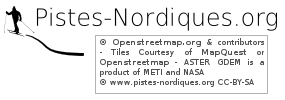
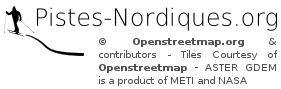
[beta] improve printing

Changed region(s): [[0.0, 0.0449, 0.9964, 0.9663]]

diff --git a/beta.pistes-nordiques.org/js/pistes-nordiques-base.js b/beta.pistes-nordiques.org/js/pistes-nordiques-base.js
@@ -28,6 +28,7 @@ var CATCHER=true;
 var permalink_potlatch2;
 var permalink_potlatch;
 var zoomBar;
+var PRINT_TYPE= 'small';
 function switch2vector() {
     if (mode == "raster") {
         loadjscssfile("js/pistes-nordiques-plus.js", "js");
@@ -697,12 +698,19 @@ function map_init(){
 // PRINT
 function print() {
 	// start print request
+	var mq=map.getLayersByName("MapQuest")[0];
+	var osm=map.getLayersByName("OSM")[0];
+	if (mq) {var bg='mq';}
+	else {var bg='osm';}
+	
 	var printLayer= map.getLayersByName("Print layer")[0];
 	var b = printLayer.features[0].geometry.bounds;
+	
+	
 	var b4326 = b.transform(
         new OpenLayers.Projection("EPSG:900913"),
         new OpenLayers.Projection("EPSG:4326"));
-    var args=b4326.left+';'+b4326.right+';'+b4326.top+';'+b4326.bottom;
+    var args=b4326.left+';'+b4326.right+';'+b4326.top+';'+b4326.bottom+';'+bg+';'+PRINT_TYPE;
     
     var XMLHttp = new XMLHttpRequest();
     XMLHttp.open("GET", server+"cgi/print/stitcher.py?"+args);
@@ -719,6 +727,7 @@ function print() {
 }
 function close_printSettings(){
 	document.getElementById('print-settings').style.display='none';
+	document.getElementById('print_result').innerHTML='';
 	var printLayer= map.getLayersByName("Print layer")[0];
 	printLayer.destroyFeatures(printLayer.features);
 	printLayer.destroy;
@@ -736,10 +745,12 @@ function setPrint(type) {
 	var center = map.getCenter();
 	var h;
 	var v;
-	if (type == 'vs') {h=5000;v=7000;}
-	if (type == 'hs') {h=7000;v=5000;}
-	if (type == 'vb') {h=7000;v=10000;}
-	if (type == 'hb') {h=10000;v=7000;}
+	if (type == 'vs') {h=5000;v=7000;PRINT_TYPE= 'small';}
+	if (type == 'hs') {h=7000;v=5000;PRINT_TYPE= 'small';}
+	//zoom 15
+	if (type == 'vb') {h=14000;v=20000;PRINT_TYPE= 'big';}
+	if (type == 'hb') {h=20000;v=14000;PRINT_TYPE= 'big';}
+	// zoom 14
 	var p1 = new OpenLayers.Geometry.Point(center.lon-h/2, center.lat-v/2);
 	var p2 = new OpenLayers.Geometry.Point(center.lon-h/2, center.lat+v/2);
 	var p3 = new OpenLayers.Geometry.Point(center.lon+h/2, center.lat+v/2);

diff --git a/beta.pistes-nordiques.org/cgi/print/stitcher.py b/beta.pistes-nordiques.org/cgi/print/stitcher.py
@@ -4,31 +4,34 @@ import math
 import urllib2
 import ImageFile
 import Image
+import ImageEnhance
 import numpy
 import StringIO
 import random
 import os
+import psycopg2
+import sys
 from cgi import parse_qs, escape
 
 #
 def deg2num(lat_deg, lon_deg, zoom):
-    lat_rad = math.radians(lat_deg)
-    n = 2.0 ** zoom
-    xtile = int((lon_deg + 180.0) / 360.0 * n)
-    ytile = int((1.0 - math.log(math.tan(lat_rad) + (1 / math.cos(lat_rad))) / math.pi) / 2.0 * n)
-    #url = 'http://c.tile.openstreetmap.org/'+str(zoom)+'/'+str(xtile)+'/'+str(ytile)+'.png'
-    return xtile, ytile
+	lat_rad = math.radians(lat_deg)
+	n = 2.0 ** zoom
+	xtile = int((lon_deg + 180.0) / 360.0 * n)
+	ytile = int((1.0 - math.log(math.tan(lat_rad) + (1 / math.cos(lat_rad))) / math.pi) / 2.0 * n)
+	#url = 'http://c.tile.openstreetmap.org/'+str(zoom)+'/'+str(xtile)+'/'+str(ytile)+'.png'
+	return xtile, ytile
 # 
 def num2deg(xtile, ytile, zoom):
-    n = 2.0 ** zoom
-    lon_deg = xtile / n * 360.0 - 180.0
-    lat_rad = math.atan(math.sinh(math.pi * (1 - 2 * ytile / n)))
-    lat_deg = math.degrees(lat_rad)
-    return(lat_deg, lon_deg)
+	n = 2.0 ** zoom
+	lon_deg = xtile / n * 360.0 - 180.0
+	lat_rad = math.atan(math.sinh(math.pi * (1 - 2 * ytile / n)))
+	lat_deg = math.degrees(lat_rad)
+	return(lat_deg, lon_deg)
 #
 def clamp(value, minvalue, maxvalue):
-    return max(minvalue, min(value, maxvalue))
-def getImage(base_url, left, right, top, bottom, zoom, numbering):
+	return max(minvalue, min(value, maxvalue))
+def getImage(base_url, left, right, top, bottom, zoom, numbering, ext):
 	centerlon = (right+left)/2
 	centerlat = (top+bottom)/2
 	# coord. off center tile:
@@ -37,7 +40,7 @@ def getImage(base_url, left, right, top, bottom, zoom, numbering):
 	lat2, lon2=num2deg(X+1, Y+1, zoom) 
 	tileDLat = lat1-lat2
 	tileDLon = lon2-lon1
-
+	f=open('/var/www/tmp/out.txt','w')
 
 	# = 4,773 m/px
 	# = 4.773*0.009/1000 deg/px
@@ -53,15 +56,17 @@ def getImage(base_url, left, right, top, bottom, zoom, numbering):
 	print canvasX, canvasY
 	stitch = Image.new('RGBA', (canvasX, canvasY))
 
-
+	count=0
 	for x in range(minX, maxX+1):
 		for y in range(minY, maxY +1):
 			if numbering == 'osm': y=y
 			if numbering == 'tms': y=2**zoom-y-1
-			url = base_url+str(zoom)+'/'+str(x)+'/'+str(y)+'.png'
-			user_agent = 'yvecai@gmail.com'
-			headers = { 'User-Agent' : user_agent }
-			req = urllib2.Request(url,'', headers)
+			url = base_url+str(zoom)+'/'+str(x)+'/'+str(y)+'.'+ext
+			
+			f.write(url+'\n')
+			req = urllib2.Request(url,'')
+			req.add_header('User-Agent', 'www.pistes-nordiques.org')
+			
 			response = urllib2.urlopen(req)
 			tile = response.read()
 			
@@ -71,10 +76,12 @@ def getImage(base_url, left, right, top, bottom, zoom, numbering):
 			box= (ix*256, iy*256)
 			stitch.paste(img,box)
 			iy +=1
+			count += 1
 		iy = 0
 		ix +=1
 
-
+	#f=open('/var/www/tmp/count.txt','w')
+	#f.write(str(count))
 	widthPx = int((right-left)/(tileDLon/256))
 	heightPx = int((top - bottom)/(tileDLat/256))
 
@@ -96,17 +103,49 @@ def getImage(base_url, left, right, top, bottom, zoom, numbering):
 def handle(req):
 	from mod_python import apache, util
 	req.content_type = 'text/plain'
-	left, right, top, bottom = req.args.split(';', 4)
+	left, right, top, bottom, background, print_type = req.args.split(';', 6)
 	
-	zoom= 15
+	if print_type == 'big' : zoom= 14 # 35 tiles
+	else : zoom= 15 # 63 tiles
 	left=float(left)
 	right=float(right)
 	top=float(top)
 	bottom=float(bottom)
 	
-	bg = getImage('http://tile.openstreetmap.org/', left, right, top, bottom, zoom,'osm')
+	# we print only pistes, here
+	db='pistes-mapnik'
+	conn = psycopg2.connect("dbname="+db+" user=mapnik")
+	cur = conn.cursor()
+	sql=" SELECT count(*) FROM planet_osm_line WHERE st_intersects(planet_osm_line.way,st_transform( ST_MakeEnvelope("+str(left)+","+ str(bottom)+","+ str(right)+","+ str(top)+", 4326),900913));"
+	cur.execute(" \
+				SELECT count(*) \
+				FROM planet_osm_line WHERE \
+				st_intersects(\
+						planet_osm_line.way,\
+						st_transform( ST_MakeEnvelope(%s,%s,%s,%s, 4326),900913)) and \"piste:type\" = 'nordic'; "\
+				, (left, bottom, right, top))
+	result=cur.fetchall()
+	cur.close()
+	conn.close()
+	if result[0][0]==0L:
+		req.write(str(result[0][0])+' pistes found')
+		return apache.OK
 	
-	contours = getImage('http://tiles.pistes-nordiques.org/tiles-contours/', left, right, top, bottom, zoom,'osm')
+	#~ if background == 'osm': 
+		#~ url='http://tile.openstreetmap.org/'
+		#~ ext='png'
+	#~ else : 
+		#~ url= 'http://otile1.mqcdn.com/tiles/1.0.0/osm/'
+		#~ ext='jpg'
+	url='http://tile.openstreetmap.org/'
+	ext='png'
+	bg = getImage(url, left, right, top, bottom, zoom,'osm',ext)
+	enhancer =  ImageEnhance.Brightness(bg)
+	bg = enhancer.enhance(1.2)
+	enhancer =  ImageEnhance.Contrast(bg)
+	bg = enhancer.enhance(0.8)
+	
+	contours = getImage('http://tiles.pistes-nordiques.org/tiles-contours/', left, right, top, bottom, zoom,'osm',ext)
 	r, g, b, a = contours.split()
 	mask = Image.merge("L", (a,))
 	
@@ -116,7 +155,7 @@ def handle(req):
 	bg.paste(contours.convert('RGB'),None,value)
 	
 	
-	hs = getImage('http://tiles2.pistes-nordiques.org/hillshading/', left, right, top, bottom, zoom,'tms')
+	hs = getImage('http://tiles2.pistes-nordiques.org/hillshading/', left, right, top, bottom, zoom,'tms',ext)
 	r, g, b, a = hs.split()
 	mask = Image.merge("L", (a,))
 	
@@ -126,7 +165,7 @@ def handle(req):
 	
 	bg.paste(hs.convert('RGB'),None,value)
 	
-	pistes = getImage('http://tiles.pistes-nordiques.org/tiles-pistes2/', left, right, top, bottom, zoom,'osm')
+	pistes = getImage('http://tiles.pistes-nordiques.org/tiles-pistes2/', left, right, top, bottom, zoom,'osm',ext)
 	r, g, b, a = pistes.split()
 	mask = Image.merge("L", (a,))
 	
@@ -144,12 +183,16 @@ def handle(req):
 	
 	bg.paste(cartouche.convert('RGB'),(0,0),value)
 	
+	s = bg.size
+	printout = Image.new('RGB', (s[0]+40, s[1]+40), 'white')
+	printout.paste(bg,(20,20))
+	
 	randFilename = random.randrange(0, 100001, 2)
 	PIL_images_dir = '/var/www/tmp/' 
 	printout_filename = 'printout'+str(randFilename)+'.pdf'
 	outname=PIL_images_dir + printout_filename
 	
 	#bg.save(outname,'png', ppi=pistes.info['ppi'])
-	bg.save(outname,'PDF', resolution=200.0)
+	printout.save(outname,'PDF', resolution=200.0, quality=90)
 	req.write('/tmp/'+printout_filename)
 	return apache.OK
